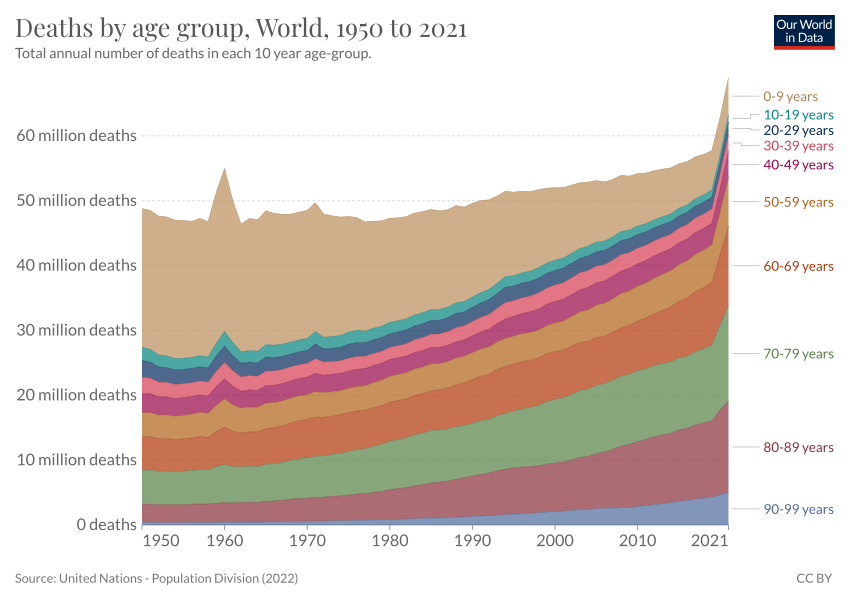
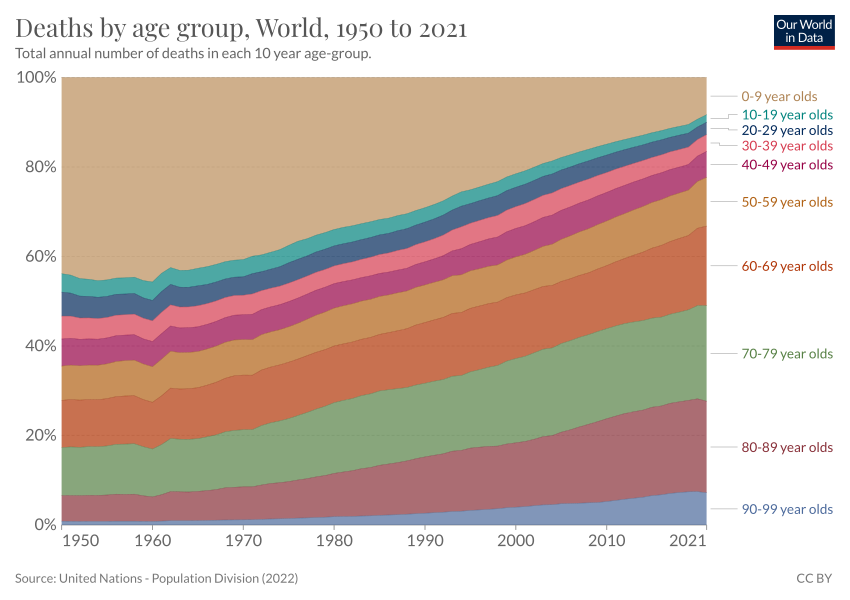
Deploy 2022-10-11T16:23:29.895Z Updating chart carbon-tax-trading-coverage Updating chart carbon-tax-trading-coverage Updating chart carbon-tax-trading-coverage Updating chart carbon-tax-trading-coverage Updating chart emissions-weighted-carbon-price Updating chart emissions-weighted-carbon-price Up

diff --git a/co2-emissions.html b/co2-emissions.html
@@ -1,4 +1,4 @@
-<!doctype html><html><head><meta name="viewport" content="width=device-width, initial-scale=1"/><title>CO2 emissions - Our World in Data</title><meta name="description" content="How much CO2 does the world emit? Which countries emit the most?"/><link rel="canonical" href="https://ourworldindata.org/co2-emissions"/><link rel="alternate" type="application/atom+xml" href="/atom.xml"/><link rel="apple-touch-icon" sizes="180x180" href="/apple-touch-icon.png"/><meta property="fb:app_id" content="1149943818390250"/><meta property="og:url" content="https://ourworldindata.org/co2-emissions"/><meta property="og:title" content="CO2 emissions"/><meta property="og:description" content="How much CO2 does the world emit? Which countries emit the most?"/><meta property="og:image" content="https://ourworldindata.org/uploads/2022/03/Screenshot-2022-03-04-at-16.51.31-768x480.png"/><meta property="og:site_name" content="Our World in Data"/><meta name="twitter:card" content="summary_large_image"/><meta name="twitter:site" content="@OurWorldInData"/><meta name="twitter:creator" content="@OurWorldInData"/><meta name="twitter:title" content="CO2 emissions"/><meta name="twitter:description" content="How much CO2 does the world emit? Which countries emit the most?"/><meta name="twitter:image" content="https://ourworldindata.org/uploads/2022/03/Screenshot-2022-03-04-at-16.51.31-768x480.png"/><link href="https://fonts.googleapis.com/css?family=Lato:300,400,400i,700,700i|Playfair+Display:400,600,700&amp;display=swap" rel="stylesheet"/><link rel="stylesheet" href="https://ourworldindata.org/assets/commons.css"/><link rel="stylesheet" href="https://ourworldindata.org/assets/owid.css"/><meta name="citation_title" content="CO₂ and Greenhouse Gas Emissions"/><meta name="citation_fulltext_html_url" content="https://ourworldindata.org/co2-and-other-greenhouse-gas-emissions"/><meta name="citation_fulltext_world_readable" content=""/><meta name="citation_publication_date" content="2020/05/11"/><meta name="citation_journal_title" content="Our World in Data"/><meta name="citation_journal_abbrev" content="Our World in Data"/><meta name="citation_author" content="Hannah Ritchie"/><meta name="citation_author" content="Max Roser"/><meta name="citation_author" content="Pablo Rosado"/></head><body class=""><header class="site-header"><div class="wrapper site-navigation-bar"><div class="site-logo"><a href="/">Our World<br/> in Data</a></div><nav class="site-navigation"><div class="topics-button-wrapper"><a href="/#entries" class="topics-button"><div class="label">Articles <br/><strong>by topic</strong></div><div class="icon"><svg width="12" height="6"><path d="M0,0 L12,0 L6,6 Z" fill="currentColor"></path></svg></div></a></div><div><div class="site-primary-navigation"><form class="HeaderSearch" action="/search" method="GET"><input type="search" name="q" placeholder="Search..."/><div class="icon"><svg aria-hidden="true" focusable="false" data-prefix="fas" data-icon="magnifying-glass" class="svg-inline--fa fa-magnifying-glass " role="img" xmlns="http://www.w3.org/2000/svg" viewBox="0 0 512 512"><path fill="currentColor" d="M416 208c0 45.9-14.9 88.3-40 122.7L502.6 457.4c12.5 12.5 12.5 32.8 0 45.3s-32.8 12.5-45.3 0L330.7 376c-34.4 25.2-76.8 40-122.7 40C93.1 416 0 322.9 0 208S93.1 0 208 0S416 93.1 416 208zM208 352c79.5 0 144-64.5 144-144s-64.5-144-144-144S64 128.5 64 208s64.5 144 144 144z"></path></svg></div></form><ul class="site-primary-links"><li><a href="/blog" data-track-note="header-navigation">Latest</a></li><li><a href="/about" data-track-note="header-navigation">About</a></li><li><a href="/donate" data-track-note="header-navigation">Donate</a></li></ul></div><div class="site-secondary-navigation"><ul class="site-secondary-links"><li><a href="/charts" data-track-note="header-navigation">All charts</a></li><li><a href="https://sdg-tracker.org" data-track-note="header-navigation">Sustainable Development Goals Tracker</a></li></ul></div></div></nav><div class="header-logos-wrapper"><a href="https://www.oxfordmartin.ox.ac.uk/global-development" class="oxford-logo"><img src="https://ourworldindata.org/oms-logo.svg" alt="Oxford Martin School logo"/></a><a href="https://global-change-data-lab.org/" class="gcdl-logo"><img src="https://ourworldindata.org/gcdl-logo.svg" alt="Global Change Data Lab logo"/></a></div><div class="mobile-site-navigation"><button data-track-note="mobile-search-button"><svg aria-hidden="true" focusable="false" data-prefix="fas" data-icon="magnifying-glass" class="svg-inline--fa fa-magnifying-glass " role="img" xmlns="http://www.w3.org/2000/svg" viewBox="0 0 512 512"><path fill="currentColor" d="M416 208c0 45.9-14.9 88.3-40 122.7L502.6 457.4c12.5 12.5 12.5 32.8 0 45.3s-32.8 12.5-45.3 0L330.7 376c-34.4 25.2-76.8 40-122.7 40C93.1 416 0 322.9 0 208S93.1 0 208 0S416 93.1 416 208zM208 352c79.5 0 144-64.5 144-144s-64.5-144-144-144S64 128.5 64 208s64.5 144 144 144z"></path></svg></button><button data-track-note="mobile-newsletter-button"><svg aria-hidden="true" focusable="false" data-prefix="fas" data-icon="envelope-open-text" class="svg-inline--fa fa-envelope-open-text " role="img" xmlns="http://www.w3.org/2000/svg" viewBox="0 0 512 512"><path fill="currentColor" d="M215.4 96H144 107.8 96v8.8V144v40.4 89L.2 202.5c1.6-18.1 10.9-34.9 25.7-45.8L48 140.3V96c0-26.5 21.5-48 48-48h76.6l49.9-36.9C232.2 3.9 243.9 0 256 0s23.8 3.9 33.5 11L339.4 48H416c26.5 0 48 21.5 48 48v44.3l22.1 16.4c14.8 10.9 24.1 27.7 25.7 45.8L416 273.4v-89V144 104.8 96H404.2 368 296.6 215.4zM0 448V242.1L217.6 403.3c11.1 8.2 24.6 12.7 38.4 12.7s27.3-4.4 38.4-12.7L512 242.1V448v0c0 35.3-28.7 64-64 64H64c-35.3 0-64-28.7-64-64v0zM176 160H336c8.8 0 16 7.2 16 16s-7.2 16-16 16H176c-8.8 0-16-7.2-16-16s7.2-16 16-16zm0 64H336c8.8 0 16 7.2 16 16s-7.2 16-16 16H176c-8.8 0-16-7.2-16-16s7.2-16 16-16z"></path></svg></button><button data-track-note="mobile-hamburger-button"><svg aria-hidden="true" focusable="false" data-prefix="fas" data-icon="bars" class="svg-inline--fa fa-bars " role="img" xmlns="http://www.w3.org/2000/svg" viewBox="0 0 448 512"><path fill="currentColor" d="M0 96C0 78.3 14.3 64 32 64H416c17.7 0 32 14.3 32 32s-14.3 32-32 32H32C14.3 128 0 113.7 0 96zM0 256c0-17.7 14.3-32 32-32H416c17.7 0 32 14.3 32 32s-14.3 32-32 32H32c-17.7 0-32-14.3-32-32zM448 416c0 17.7-14.3 32-32 32H32c-17.7 0-32-14.3-32-32s14.3-32 32-32H416c17.7 0 32 14.3 32 32z"></path></svg></button></div></div></header><div class="alert-banner"><div class="content"><div class="text"><strong>COVID-19 vaccinations, cases, excess mortality, and much more</strong></div><a href="/coronavirus#explore-the-global-situation" data-track-note="covid-banner-click">Explore our COVID-19 data</a></div></div><main><article class="page with-sidebar large-banner"><div class="offset-header"><header class="article-header"><div class="article-titles"><h1 class="entry-title">CO2 emissions</h1><div class="breadcrumb"><a href="/">Home</a><span class="separator"><svg aria-hidden="true" focusable="false" data-prefix="fas" data-icon="angle-right" class="svg-inline--fa fa-angle-right " role="img" xmlns="http://www.w3.org/2000/svg" viewBox="0 0 320 512"><path fill="currentColor" d="M278.6 233.4c12.5 12.5 12.5 32.8 0 45.3l-160 160c-12.5 12.5-32.8 12.5-45.3 0s-12.5-32.8 0-45.3L210.7 256 73.4 118.6c-12.5-12.5-12.5-32.8 0-45.3s32.8-12.5 45.3 0l160 160z"></path></svg></span><a data-track-note="breadcrumb" href="/co2-and-other-greenhouse-gas-emissions">CO₂ and GHG Emissions</a><span class="separator"><svg aria-hidden="true" focusable="false" data-prefix="fas" data-icon="angle-right" class="svg-inline--fa fa-angle-right " role="img" xmlns="http://www.w3.org/2000/svg" viewBox="0 0 320 512"><path fill="currentColor" d="M278.6 233.4c12.5 12.5 12.5 32.8 0 45.3l-160 160c-12.5 12.5-32.8 12.5-45.3 0s-12.5-32.8 0-45.3L210.7 256 73.4 118.6c-12.5-12.5-12.5-32.8 0-45.3s32.8-12.5 45.3 0l160 160z"></path></svg></span><span>CO₂ emissions</span></div></div><div class="authors-byline"><a href="/team">by Hannah Ritchie and Max Roser</a></div><div class="tools"><a href="#licence"><svg aria-hidden="true" focusable="false" data-prefix="fab" data-icon="creative-commons" class="svg-inline--fa fa-creative-commons " role="img" xmlns="http://www.w3.org/2000/svg" viewBox="0 0 496 512"><path fill="currentColor" d="M245.83 214.87l-33.22 17.28c-9.43-19.58-25.24-19.93-27.46-19.93-22.13 0-33.22 14.61-33.22 43.84 0 23.57 9.21 43.84 33.22 43.84 14.47 0 24.65-7.09 30.57-21.26l30.55 15.5c-6.17 11.51-25.69 38.98-65.1 38.98-22.6 0-73.96-10.32-73.96-77.05 0-58.69 43-77.06 72.63-77.06 30.72-.01 52.7 11.95 65.99 35.86zm143.05 0l-32.78 17.28c-9.5-19.77-25.72-19.93-27.9-19.93-22.14 0-33.22 14.61-33.22 43.84 0 23.55 9.23 43.84 33.22 43.84 14.45 0 24.65-7.09 30.54-21.26l31 15.5c-2.1 3.75-21.39 38.98-65.09 38.98-22.69 0-73.96-9.87-73.96-77.05 0-58.67 42.97-77.06 72.63-77.06 30.71-.01 52.58 11.95 65.56 35.86zM247.56 8.05C104.74 8.05 0 123.11 0 256.05c0 138.49 113.6 248 247.56 248 129.93 0 248.44-100.87 248.44-248 0-137.87-106.62-248-248.44-248zm.87 450.81c-112.54 0-203.7-93.04-203.7-202.81 0-105.42 85.43-203.27 203.72-203.27 112.53 0 202.82 89.46 202.82 203.26-.01 121.69-99.68 202.82-202.84 202.82z"></path></svg>Reuse our work freely</a><a href="#citation"><svg aria-hidden="true" focusable="false" data-prefix="fas" data-icon="book" class="svg-inline--fa fa-book " role="img" xmlns="http://www.w3.org/2000/svg" viewBox="0 0 448 512"><path fill="currentColor" d="M96 0C43 0 0 43 0 96V416c0 53 43 96 96 96H384h32c17.7 0 32-14.3 32-32s-14.3-32-32-32V384c17.7 0 32-14.3 32-32V32c0-17.7-14.3-32-32-32H384 96zm0 384H352v64H96c-17.7 0-32-14.3-32-32s14.3-32 32-32zm32-240c0-8.8 7.2-16 16-16H336c8.8 0 16 7.2 16 16s-7.2 16-16 16H144c-8.8 0-16-7.2-16-16zm16 48H336c8.8 0 16 7.2 16 16s-7.2 16-16 16H144c-8.8 0-16-7.2-16-16s7.2-16 16-16z"></path></svg>Cite this research</a></div></header></div><div class="offset-subnavigation"><div class="site-subnavigation"><div class="site-subnavigation-scroll"><ul class="site-subnavigation-links"><li class="highlight"><a href="/co2-and-other-greenhouse-gas-emissions" data-track-note="co2-subnav-co2-and-ghg-emissions">CO₂ and GHG Emissions<svg aria-hidden="true" focusable="false" data-prefix="fas" data-icon="chevron-left" class="svg-inline--fa fa-chevron-left " role="img" xmlns="http://www.w3.org/2000/svg" viewBox="0 0 384 512"><path fill="currentColor" d="M41.4 233.4c-12.5 12.5-12.5 32.8 0 45.3l192 192c12.5 12.5 32.8 12.5 45.3 0s12.5-32.8 0-45.3L109.3 256 278.6 86.6c12.5-12.5 12.5-32.8 0-45.3s-32.8-12.5-45.3 0l-192 192z"></path></svg></a></li><li class=""><a href="/co2-and-other-greenhouse-gas-emissions#co2-and-greenhouse-gas-emissions-country-profiles" data-track-note="co2-subnav-by-country">By country</a></li><li class=""><a href="/explorers/co2" data-track-note="co2-subnav-co2-data-explorer">Data explorer</a></li><li class="current"><a href="/co2-emissions" data-track-note="co2-subnav-co2-emissions">CO₂ emissions</a></li><li class=""><a href="/emissions-by-fuel" data-track-note="co2-subnav-by-fuel">CO₂ by fuel</a></li><li class=""><a href="/greenhouse-gas-emissions" data-track-note="co2-subnav-ghg-emissions">GHG emissions</a></li><li class=""><a href="/emissions-by-sector" data-track-note="co2-subnav-by-sector">By sector</a></li><li class=""><a href="/atmospheric-concentrations" data-track-note="co2-subnav-atm-concentrations">Atmospheric concentrations</a></li><li class=""><a href="/explorers/climate-change" data-track-note="co2-subnav-climate-impacts">Climate impacts</a></li></ul></div></div></div><div class="content-wrapper"><div class="toc-wrapper"><aside class="entry-sidebar"><nav class="entry-toc"><ul><li><a href="#" data-track-note="toc-header">CO2 emissions</a></li><li class="section"><a href="#global-co2-emissions-from-fossil-fuels" data-track-note="toc-link">Global CO2 emissions from fossil fuels</a></li><li class="subsection"><a href="#global-co2-emissions-from-fossil-fuels-global-co2-emissions-from-fossil-fuels" data-track-note="toc-link">Global CO2 emissions from fossil fuels</a></li><li class="subsection"><a href="#global-co2-emissions-from-fossil-fuels-and-land-use-change" data-track-note="toc-link">Global CO2 emissions from fossil fuels and land use change</a></li><li class="subsection"><a href="#co2-emissions-by-region" data-track-note="toc-link">CO2 emissions by region</a></li><li class="section"><a href="#per-capita-co2-emissions" data-track-note="toc-link">Per capita CO2 emissions</a></li><li class="section"><a href="#annual-co2-emissions" data-track-note="toc-link">Annual CO2 emissions</a></li><li class="section"><a href="#annual-change-in-co2-emissions" data-track-note="toc-link">Annual change in CO2 emissions</a></li><li class="section"><a href="#cumulative-co2-emissions" data-track-note="toc-link">Cumulative CO2 emissions</a></li><li class="section"><a href="#consumption-based-trade-adjusted-emissions" data-track-note="toc-link">Consumption-based (trade-adjusted) emissions</a></li><li class="section"><a href="#decoupling-co2-emissions-from-economic-growth" data-track-note="toc-link">Decoupling CO₂ emissions from economic growth</a></li><li class="section"><a href="#global-inequalities-in-co2-emissions" data-track-note="toc-link">Global inequalities in CO2 emissions</a></li><li class="subsection"><a href="#global-inequalities-by-production" data-track-note="toc-link">Global inequalities by production</a></li><li class="subsection"><a href="#global-inequalities-by-consumption" data-track-note="toc-link">Global inequalities by consumption</a></li><li class="section"><a href="#how-do-we-measure-or-estimate-co2-emissions" data-track-note="toc-link">How do we measure or estimate CO2 emissions?</a></li><li class="section"><a href="#endnotes" data-track-note="toc-link">Endnotes</a></li><li class="section"><a href="#licence" data-track-note="toc-link">Licence</a></li><li class="section"><a href="#citation" data-track-note="toc-link">Citation</a></li></ul></nav><div class="toggle-toc"><button data-track-note="page-toggle-toc" aria-label="Open table of contents"><svg aria-hidden="true" focusable="false" data-prefix="fas" data-icon="bars" class="svg-inline--fa fa-bars " role="img" xmlns="http://www.w3.org/2000/svg" viewBox="0 0 448 512"><path fill="currentColor" d="M0 96C0 78.3 14.3 64 32 64H416c17.7 0 32 14.3 32 32s-14.3 32-32 32H32C14.3 128 0 113.7 0 96zM0 256c0-17.7 14.3-32 32-32H416c17.7 0 32 14.3 32 32s-14.3 32-32 32H32c-17.7 0-32-14.3-32-32zM448 416c0 17.7-14.3 32-32 32H32c-17.7 0-32-14.3-32-32s14.3-32 32-32H416c17.7 0 32 14.3 32 32z"></path></svg><span class="label">Contents</span></button></div></aside></div><div class="offset-content"><div class="content-and-footnotes"><div class="article-content"><section><div class="wp-block-columns is-style-sticky-right"><div class="wp-block-column"><p>You can&nbsp;<strong><a href="https://github.com/owid/co2-data">download</a></strong>&nbsp;our complete <em>Our World in Data</em> CO<sub>2</sub> and Greenhouse Gas Emissions database.</p><hr class="wp-block-separator"><p>Carbon dioxide emissions are the primary driver of global climate change. It’s widely recognised that to avoid the worst impacts of climate change, the world needs to urgently reduce emissions. But, how this responsibility is shared between regions, countries, and individuals has been an endless point of contention in international discussions. </p><p>This debate arises from the various ways in which emissions are compared: as annual emissions by country; emissions per person; historical contributions; and whether they adjust for traded goods and services. These metrics can tell very different stories. </p><p>We teamed up with the YouTube channel, <em>Kurzgesagt</em>, to produce a video which explored these different metrics in detail: <a href="https://www.youtube.com/watch?v=ipVxxxqwBQw">‘Who is responsible for climate change? – Who needs to fix it?’</a>. All of the data and research featured in this video is contained in this article: below we look in detail at the many ways emissions are broken down.</p><div class="wp-container-634594a6cf4fa wp-block-group">    <div class="block-wrapper"><div class="wp-block-owid-prominent-link with-image" data-no-lightbox="true" data-style="is-style-thin" data-title="&nbsp;‘Who is responsible for climate change? – Who needs to fix it?’"><a href="https://www.youtube.com/watch?v=ipVxxxqwBQw"><figure><img width="768" height="433" src="https://ourworldindata.org/uploads/2020/06/CO2-Kurzgesagt-768x433.png" class="attachment-medium_large size-medium_large" alt="Co2 kurzgesagt" loading="lazy" srcset="https://ourworldindata.org/uploads/2020/06/CO2-Kurzgesagt-768x433.png 768w, https://ourworldindata.org/uploads/2020/06/CO2-Kurzgesagt-400x225.png 400w, https://ourworldindata.org/uploads/2020/06/CO2-Kurzgesagt-800x451.png 800w, https://ourworldindata.org/uploads/2020/06/CO2-Kurzgesagt-150x84.png 150w, https://ourworldindata.org/uploads/2020/06/CO2-Kurzgesagt.png 1422w" sizes="(max-width: 768px) 100vw, 768px" data-high-res-src="https://ourworldindata.org/uploads/2020/06/CO2-Kurzgesagt.png"></figure><div class="content-wrapper"><div class="content">
+<!doctype html><html><head><meta name="viewport" content="width=device-width, initial-scale=1"/><title>CO2 emissions - Our World in Data</title><meta name="description" content="How much CO2 does the world emit? Which countries emit the most?"/><link rel="canonical" href="https://ourworldindata.org/co2-emissions"/><link rel="alternate" type="application/atom+xml" href="/atom.xml"/><link rel="apple-touch-icon" sizes="180x180" href="/apple-touch-icon.png"/><meta property="fb:app_id" content="1149943818390250"/><meta property="og:url" content="https://ourworldindata.org/co2-emissions"/><meta property="og:title" content="CO2 emissions"/><meta property="og:description" content="How much CO2 does the world emit? Which countries emit the most?"/><meta property="og:image" content="https://ourworldindata.org/uploads/2022/03/Screenshot-2022-03-04-at-16.51.31-768x480.png"/><meta property="og:site_name" content="Our World in Data"/><meta name="twitter:card" content="summary_large_image"/><meta name="twitter:site" content="@OurWorldInData"/><meta name="twitter:creator" content="@OurWorldInData"/><meta name="twitter:title" content="CO2 emissions"/><meta name="twitter:description" content="How much CO2 does the world emit? Which countries emit the most?"/><meta name="twitter:image" content="https://ourworldindata.org/uploads/2022/03/Screenshot-2022-03-04-at-16.51.31-768x480.png"/><link href="https://fonts.googleapis.com/css?family=Lato:300,400,400i,700,700i|Playfair+Display:400,600,700&amp;display=swap" rel="stylesheet"/><link rel="stylesheet" href="https://ourworldindata.org/assets/commons.css"/><link rel="stylesheet" href="https://ourworldindata.org/assets/owid.css"/><meta name="citation_title" content="CO₂ and Greenhouse Gas Emissions"/><meta name="citation_fulltext_html_url" content="https://ourworldindata.org/co2-and-other-greenhouse-gas-emissions"/><meta name="citation_fulltext_world_readable" content=""/><meta name="citation_publication_date" content="2020/05/11"/><meta name="citation_journal_title" content="Our World in Data"/><meta name="citation_journal_abbrev" content="Our World in Data"/><meta name="citation_author" content="Hannah Ritchie"/><meta name="citation_author" content="Max Roser"/><meta name="citation_author" content="Pablo Rosado"/></head><body class=""><header class="site-header"><div class="wrapper site-navigation-bar"><div class="site-logo"><a href="/">Our World<br/> in Data</a></div><nav class="site-navigation"><div class="topics-button-wrapper"><a href="/#entries" class="topics-button"><div class="label">Articles <br/><strong>by topic</strong></div><div class="icon"><svg width="12" height="6"><path d="M0,0 L12,0 L6,6 Z" fill="currentColor"></path></svg></div></a></div><div><div class="site-primary-navigation"><form class="HeaderSearch" action="/search" method="GET"><input type="search" name="q" placeholder="Search..."/><div class="icon"><svg aria-hidden="true" focusable="false" data-prefix="fas" data-icon="magnifying-glass" class="svg-inline--fa fa-magnifying-glass " role="img" xmlns="http://www.w3.org/2000/svg" viewBox="0 0 512 512"><path fill="currentColor" d="M416 208c0 45.9-14.9 88.3-40 122.7L502.6 457.4c12.5 12.5 12.5 32.8 0 45.3s-32.8 12.5-45.3 0L330.7 376c-34.4 25.2-76.8 40-122.7 40C93.1 416 0 322.9 0 208S93.1 0 208 0S416 93.1 416 208zM208 352c79.5 0 144-64.5 144-144s-64.5-144-144-144S64 128.5 64 208s64.5 144 144 144z"></path></svg></div></form><ul class="site-primary-links"><li><a href="/blog" data-track-note="header-navigation">Latest</a></li><li><a href="/about" data-track-note="header-navigation">About</a></li><li><a href="/donate" data-track-note="header-navigation">Donate</a></li></ul></div><div class="site-secondary-navigation"><ul class="site-secondary-links"><li><a href="/charts" data-track-note="header-navigation">All charts</a></li><li><a href="https://sdg-tracker.org" data-track-note="header-navigation">Sustainable Development Goals Tracker</a></li></ul></div></div></nav><div class="header-logos-wrapper"><a href="https://www.oxfordmartin.ox.ac.uk/global-development" class="oxford-logo"><img src="https://ourworldindata.org/oms-logo.svg" alt="Oxford Martin School logo"/></a><a href="https://global-change-data-lab.org/" class="gcdl-logo"><img src="https://ourworldindata.org/gcdl-logo.svg" alt="Global Change Data Lab logo"/></a></div><div class="mobile-site-navigation"><button data-track-note="mobile-search-button"><svg aria-hidden="true" focusable="false" data-prefix="fas" data-icon="magnifying-glass" class="svg-inline--fa fa-magnifying-glass " role="img" xmlns="http://www.w3.org/2000/svg" viewBox="0 0 512 512"><path fill="currentColor" d="M416 208c0 45.9-14.9 88.3-40 122.7L502.6 457.4c12.5 12.5 12.5 32.8 0 45.3s-32.8 12.5-45.3 0L330.7 376c-34.4 25.2-76.8 40-122.7 40C93.1 416 0 322.9 0 208S93.1 0 208 0S416 93.1 416 208zM208 352c79.5 0 144-64.5 144-144s-64.5-144-144-144S64 128.5 64 208s64.5 144 144 144z"></path></svg></button><button data-track-note="mobile-newsletter-button"><svg aria-hidden="true" focusable="false" data-prefix="fas" data-icon="envelope-open-text" class="svg-inline--fa fa-envelope-open-text " role="img" xmlns="http://www.w3.org/2000/svg" viewBox="0 0 512 512"><path fill="currentColor" d="M215.4 96H144 107.8 96v8.8V144v40.4 89L.2 202.5c1.6-18.1 10.9-34.9 25.7-45.8L48 140.3V96c0-26.5 21.5-48 48-48h76.6l49.9-36.9C232.2 3.9 243.9 0 256 0s23.8 3.9 33.5 11L339.4 48H416c26.5 0 48 21.5 48 48v44.3l22.1 16.4c14.8 10.9 24.1 27.7 25.7 45.8L416 273.4v-89V144 104.8 96H404.2 368 296.6 215.4zM0 448V242.1L217.6 403.3c11.1 8.2 24.6 12.7 38.4 12.7s27.3-4.4 38.4-12.7L512 242.1V448v0c0 35.3-28.7 64-64 64H64c-35.3 0-64-28.7-64-64v0zM176 160H336c8.8 0 16 7.2 16 16s-7.2 16-16 16H176c-8.8 0-16-7.2-16-16s7.2-16 16-16zm0 64H336c8.8 0 16 7.2 16 16s-7.2 16-16 16H176c-8.8 0-16-7.2-16-16s7.2-16 16-16z"></path></svg></button><button data-track-note="mobile-hamburger-button"><svg aria-hidden="true" focusable="false" data-prefix="fas" data-icon="bars" class="svg-inline--fa fa-bars " role="img" xmlns="http://www.w3.org/2000/svg" viewBox="0 0 448 512"><path fill="currentColor" d="M0 96C0 78.3 14.3 64 32 64H416c17.7 0 32 14.3 32 32s-14.3 32-32 32H32C14.3 128 0 113.7 0 96zM0 256c0-17.7 14.3-32 32-32H416c17.7 0 32 14.3 32 32s-14.3 32-32 32H32c-17.7 0-32-14.3-32-32zM448 416c0 17.7-14.3 32-32 32H32c-17.7 0-32-14.3-32-32s14.3-32 32-32H416c17.7 0 32 14.3 32 32z"></path></svg></button></div></div></header><div class="alert-banner"><div class="content"><div class="text"><strong>COVID-19 vaccinations, cases, excess mortality, and much more</strong></div><a href="/coronavirus#explore-the-global-situation" data-track-note="covid-banner-click">Explore our COVID-19 data</a></div></div><main><article class="page with-sidebar large-banner"><div class="offset-header"><header class="article-header"><div class="article-titles"><h1 class="entry-title">CO2 emissions</h1><div class="breadcrumb"><a href="/">Home</a><span class="separator"><svg aria-hidden="true" focusable="false" data-prefix="fas" data-icon="angle-right" class="svg-inline--fa fa-angle-right " role="img" xmlns="http://www.w3.org/2000/svg" viewBox="0 0 320 512"><path fill="currentColor" d="M278.6 233.4c12.5 12.5 12.5 32.8 0 45.3l-160 160c-12.5 12.5-32.8 12.5-45.3 0s-12.5-32.8 0-45.3L210.7 256 73.4 118.6c-12.5-12.5-12.5-32.8 0-45.3s32.8-12.5 45.3 0l160 160z"></path></svg></span><a data-track-note="breadcrumb" href="/co2-and-other-greenhouse-gas-emissions">CO₂ and GHG Emissions</a><span class="separator"><svg aria-hidden="true" focusable="false" data-prefix="fas" data-icon="angle-right" class="svg-inline--fa fa-angle-right " role="img" xmlns="http://www.w3.org/2000/svg" viewBox="0 0 320 512"><path fill="currentColor" d="M278.6 233.4c12.5 12.5 12.5 32.8 0 45.3l-160 160c-12.5 12.5-32.8 12.5-45.3 0s-12.5-32.8 0-45.3L210.7 256 73.4 118.6c-12.5-12.5-12.5-32.8 0-45.3s32.8-12.5 45.3 0l160 160z"></path></svg></span><span>CO₂ emissions</span></div></div><div class="authors-byline"><a href="/team">by Hannah Ritchie and Max Roser</a></div><div class="tools"><a href="#licence"><svg aria-hidden="true" focusable="false" data-prefix="fab" data-icon="creative-commons" class="svg-inline--fa fa-creative-commons " role="img" xmlns="http://www.w3.org/2000/svg" viewBox="0 0 496 512"><path fill="currentColor" d="M245.83 214.87l-33.22 17.28c-9.43-19.58-25.24-19.93-27.46-19.93-22.13 0-33.22 14.61-33.22 43.84 0 23.57 9.21 43.84 33.22 43.84 14.47 0 24.65-7.09 30.57-21.26l30.55 15.5c-6.17 11.51-25.69 38.98-65.1 38.98-22.6 0-73.96-10.32-73.96-77.05 0-58.69 43-77.06 72.63-77.06 30.72-.01 52.7 11.95 65.99 35.86zm143.05 0l-32.78 17.28c-9.5-19.77-25.72-19.93-27.9-19.93-22.14 0-33.22 14.61-33.22 43.84 0 23.55 9.23 43.84 33.22 43.84 14.45 0 24.65-7.09 30.54-21.26l31 15.5c-2.1 3.75-21.39 38.98-65.09 38.98-22.69 0-73.96-9.87-73.96-77.05 0-58.67 42.97-77.06 72.63-77.06 30.71-.01 52.58 11.95 65.56 35.86zM247.56 8.05C104.74 8.05 0 123.11 0 256.05c0 138.49 113.6 248 247.56 248 129.93 0 248.44-100.87 248.44-248 0-137.87-106.62-248-248.44-248zm.87 450.81c-112.54 0-203.7-93.04-203.7-202.81 0-105.42 85.43-203.27 203.72-203.27 112.53 0 202.82 89.46 202.82 203.26-.01 121.69-99.68 202.82-202.84 202.82z"></path></svg>Reuse our work freely</a><a href="#citation"><svg aria-hidden="true" focusable="false" data-prefix="fas" data-icon="book" class="svg-inline--fa fa-book " role="img" xmlns="http://www.w3.org/2000/svg" viewBox="0 0 448 512"><path fill="currentColor" d="M96 0C43 0 0 43 0 96V416c0 53 43 96 96 96H384h32c17.7 0 32-14.3 32-32s-14.3-32-32-32V384c17.7 0 32-14.3 32-32V32c0-17.7-14.3-32-32-32H384 96zm0 384H352v64H96c-17.7 0-32-14.3-32-32s14.3-32 32-32zm32-240c0-8.8 7.2-16 16-16H336c8.8 0 16 7.2 16 16s-7.2 16-16 16H144c-8.8 0-16-7.2-16-16zm16 48H336c8.8 0 16 7.2 16 16s-7.2 16-16 16H144c-8.8 0-16-7.2-16-16s7.2-16 16-16z"></path></svg>Cite this research</a></div></header></div><div class="offset-subnavigation"><div class="site-subnavigation"><div class="site-subnavigation-scroll"><ul class="site-subnavigation-links"><li class="highlight"><a href="/co2-and-other-greenhouse-gas-emissions" data-track-note="co2-subnav-co2-and-ghg-emissions">CO₂ and GHG Emissions<svg aria-hidden="true" focusable="false" data-prefix="fas" data-icon="chevron-left" class="svg-inline--fa fa-chevron-left " role="img" xmlns="http://www.w3.org/2000/svg" viewBox="0 0 384 512"><path fill="currentColor" d="M41.4 233.4c-12.5 12.5-12.5 32.8 0 45.3l192 192c12.5 12.5 32.8 12.5 45.3 0s12.5-32.8 0-45.3L109.3 256 278.6 86.6c12.5-12.5 12.5-32.8 0-45.3s-32.8-12.5-45.3 0l-192 192z"></path></svg></a></li><li class=""><a href="/co2-and-other-greenhouse-gas-emissions#co2-and-greenhouse-gas-emissions-country-profiles" data-track-note="co2-subnav-by-country">By country</a></li><li class=""><a href="/explorers/co2" data-track-note="co2-subnav-co2-data-explorer">Data explorer</a></li><li class="current"><a href="/co2-emissions" data-track-note="co2-subnav-co2-emissions">CO₂ emissions</a></li><li class=""><a href="/emissions-by-fuel" data-track-note="co2-subnav-by-fuel">CO₂ by fuel</a></li><li class=""><a href="/greenhouse-gas-emissions" data-track-note="co2-subnav-ghg-emissions">GHG emissions</a></li><li class=""><a href="/emissions-by-sector" data-track-note="co2-subnav-by-sector">By sector</a></li><li class=""><a href="/atmospheric-concentrations" data-track-note="co2-subnav-atm-concentrations">Atmospheric concentrations</a></li><li class=""><a href="/explorers/climate-change" data-track-note="co2-subnav-climate-impacts">Climate impacts</a></li></ul></div></div></div><div class="content-wrapper"><div class="toc-wrapper"><aside class="entry-sidebar"><nav class="entry-toc"><ul><li><a href="#" data-track-note="toc-header">CO2 emissions</a></li><li class="section"><a href="#global-co2-emissions-from-fossil-fuels" data-track-note="toc-link">Global CO2 emissions from fossil fuels</a></li><li class="subsection"><a href="#global-co2-emissions-from-fossil-fuels-global-co2-emissions-from-fossil-fuels" data-track-note="toc-link">Global CO2 emissions from fossil fuels</a></li><li class="subsection"><a href="#global-co2-emissions-from-fossil-fuels-and-land-use-change" data-track-note="toc-link">Global CO2 emissions from fossil fuels and land use change</a></li><li class="subsection"><a href="#co2-emissions-by-region" data-track-note="toc-link">CO2 emissions by region</a></li><li class="section"><a href="#per-capita-co2-emissions" data-track-note="toc-link">Per capita CO2 emissions</a></li><li class="section"><a href="#annual-co2-emissions" data-track-note="toc-link">Annual CO2 emissions</a></li><li class="section"><a href="#annual-change-in-co2-emissions" data-track-note="toc-link">Annual change in CO2 emissions</a></li><li class="section"><a href="#cumulative-co2-emissions" data-track-note="toc-link">Cumulative CO2 emissions</a></li><li class="section"><a href="#consumption-based-trade-adjusted-emissions" data-track-note="toc-link">Consumption-based (trade-adjusted) emissions</a></li><li class="section"><a href="#decoupling-co2-emissions-from-economic-growth" data-track-note="toc-link">Decoupling CO₂ emissions from economic growth</a></li><li class="section"><a href="#global-inequalities-in-co2-emissions" data-track-note="toc-link">Global inequalities in CO2 emissions</a></li><li class="subsection"><a href="#global-inequalities-by-production" data-track-note="toc-link">Global inequalities by production</a></li><li class="subsection"><a href="#global-inequalities-by-consumption" data-track-note="toc-link">Global inequalities by consumption</a></li><li class="section"><a href="#how-do-we-measure-or-estimate-co2-emissions" data-track-note="toc-link">How do we measure or estimate CO2 emissions?</a></li><li class="section"><a href="#endnotes" data-track-note="toc-link">Endnotes</a></li><li class="section"><a href="#licence" data-track-note="toc-link">Licence</a></li><li class="section"><a href="#citation" data-track-note="toc-link">Citation</a></li></ul></nav><div class="toggle-toc"><button data-track-note="page-toggle-toc" aria-label="Open table of contents"><svg aria-hidden="true" focusable="false" data-prefix="fas" data-icon="bars" class="svg-inline--fa fa-bars " role="img" xmlns="http://www.w3.org/2000/svg" viewBox="0 0 448 512"><path fill="currentColor" d="M0 96C0 78.3 14.3 64 32 64H416c17.7 0 32 14.3 32 32s-14.3 32-32 32H32C14.3 128 0 113.7 0 96zM0 256c0-17.7 14.3-32 32-32H416c17.7 0 32 14.3 32 32s-14.3 32-32 32H32c-17.7 0-32-14.3-32-32zM448 416c0 17.7-14.3 32-32 32H32c-17.7 0-32-14.3-32-32s14.3-32 32-32H416c17.7 0 32 14.3 32 32z"></path></svg><span class="label">Contents</span></button></div></aside></div><div class="offset-content"><div class="content-and-footnotes"><div class="article-content"><section><div class="wp-block-columns is-style-sticky-right"><div class="wp-block-column"><p>You can&nbsp;<strong><a href="https://github.com/owid/co2-data">download</a></strong>&nbsp;our complete <em>Our World in Data</em> CO<sub>2</sub> and Greenhouse Gas Emissions database.</p><hr class="wp-block-separator"><p>Carbon dioxide emissions are the primary driver of global climate change. It’s widely recognised that to avoid the worst impacts of climate change, the world needs to urgently reduce emissions. But, how this responsibility is shared between regions, countries, and individuals has been an endless point of contention in international discussions. </p><p>This debate arises from the various ways in which emissions are compared: as annual emissions by country; emissions per person; historical contributions; and whether they adjust for traded goods and services. These metrics can tell very different stories. </p><p>We teamed up with the YouTube channel, <em>Kurzgesagt</em>, to produce a video which explored these different metrics in detail: <a href="https://www.youtube.com/watch?v=ipVxxxqwBQw">‘Who is responsible for climate change? – Who needs to fix it?’</a>. All of the data and research featured in this video is contained in this article: below we look in detail at the many ways emissions are broken down.</p><div class="wp-container-634598b5abbc8 wp-block-group">    <div class="block-wrapper"><div class="wp-block-owid-prominent-link with-image" data-no-lightbox="true" data-style="is-style-thin" data-title="&nbsp;‘Who is responsible for climate change? – Who needs to fix it?’"><a href="https://www.youtube.com/watch?v=ipVxxxqwBQw"><figure><img width="768" height="433" src="https://ourworldindata.org/uploads/2020/06/CO2-Kurzgesagt-768x433.png" class="attachment-medium_large size-medium_large" alt="Co2 kurzgesagt" loading="lazy" srcset="https://ourworldindata.org/uploads/2020/06/CO2-Kurzgesagt-768x433.png 768w, https://ourworldindata.org/uploads/2020/06/CO2-Kurzgesagt-400x225.png 400w, https://ourworldindata.org/uploads/2020/06/CO2-Kurzgesagt-800x451.png 800w, https://ourworldindata.org/uploads/2020/06/CO2-Kurzgesagt-150x84.png 150w, https://ourworldindata.org/uploads/2020/06/CO2-Kurzgesagt.png 1422w" sizes="(max-width: 768px) 100vw, 768px" data-high-res-src="https://ourworldindata.org/uploads/2020/06/CO2-Kurzgesagt.png"></figure><div class="content-wrapper"><div class="content">
 
 <p>We teamed up with YouTube channel <em>Kurzgesagt</em> to make a video on comparisons of CO<sub>2</sub> emissions.</p>
 

diff --git a/grapher/deaths-by-age-group.html b/grapher/deaths-by-age-group.html
@@ -269,12 +269,13 @@
   "yAxis": {
     "min": 0
   },
-  "version": 2,
+  "version": 3,
   "subtitle": "Total annual number of deaths in each 10 year age-group.",
+  "stackMode": "relative",
   "dimensions": [
     {
       "display": {
-        "name": "0-9 years",
+        "name": "0-9 year olds",
         "unit": "deaths",
         "shortUnit": "deaths",
         "includeInTable": true,
@@ -286,7 +287,7 @@
     },
     {
       "display": {
-        "name": "10-19 years",
+        "name": "10-19 year olds",
         "includeInTable": true,
         "numDecimalPlaces": 0
       },
@@ -295,7 +296,7 @@
     },
     {
       "display": {
-        "name": "20-29 years",
+        "name": "20-29 year olds",
         "includeInTable": true,
         "numDecimalPlaces": 0
       },
@@ -304,7 +305,7 @@
     },
     {
       "display": {
-        "name": "30-39 years",
+        "name": "30-39 year olds",
         "includeInTable": true,
         "numDecimalPlaces": 0
       },
@@ -313,7 +314,7 @@
     },
     {
       "display": {
-        "name": "40-49 years",
+        "name": "40-49 year olds",
         "includeInTable": true,
         "numDecimalPlaces": 0
       },
@@ -322,7 +323,7 @@
     },
     {
       "display": {
-        "name": "50-59 years",
+        "name": "50-59 year olds",
         "includeInTable": true,
         "numDecimalPlaces": 0
       },
@@ -331,7 +332,7 @@
     },
     {
       "display": {
-        "name": "60-69 years",
+        "name": "60-69 year olds",
         "includeInTable": true,
         "numDecimalPlaces": 0
       },
@@ -340,7 +341,7 @@
     },
     {
       "display": {
-        "name": "70-79 years",
+        "name": "70-79 year olds",
         "includeInTable": true,
         "numDecimalPlaces": 0
       },
@@ -349,7 +350,7 @@
     },
     {
       "display": {
-        "name": "80-89 years",
+        "name": "80-89 year olds",
         "includeInTable": true,
         "numDecimalPlaces": 0
       },
@@ -358,7 +359,7 @@
     },
     {
       "display": {
-        "name": "90-99 years",
+        "name": "90-99 year olds",
         "includeInTable": true,
         "numDecimalPlaces": 0
       },

diff --git a/energy-archive.html b/energy-archive.html
@@ -201,7 +201,7 @@
 
 
 
-<div class="wp-sticky-container"><div data-project="energy" class="wp-block-search-country-profile"></div><h5><strong>Our 12 most visited country profiles</strong></h5><div class="wp-container-634594a2da7ee wp-block-group"><div class="wp-block-group__inner-container">
+<div class="wp-sticky-container"><div data-project="energy" class="wp-block-search-country-profile"></div><h5><strong>Our 12 most visited country profiles</strong></h5><div class="wp-container-634598b27031b wp-block-group"><div class="wp-block-group__inner-container">
 <ul class="covid-country-tiles"><li><a href="https://ourworldindata.org/energy/country/united-states?country=~USA">United States</a></li><li><a href="https://ourworldindata.org/energy/country/united-kingdom?country=~GBR">United Kingdom</a></li><li><a href="https://ourworldindata.org/energy/country/china?country=~CHN">China</a></li><li><a href="https://ourworldindata.org/energy/country/india?country=~IND">India</a></li><li><a href="https://ourworldindata.org/energy/country/brazil?country=~BRA">Brazil</a></li><li><a href="https://ourworldindata.org/energy/country/south-africa?country=~ZAF">South Africa</a></li><li><a href="https://ourworldindata.org/energy/country/germany?country=~DEU">Germany</a></li><li><a href="https://ourworldindata.org/energy/country/spain?country=~ESP">Spain</a></li><li><a href="https://ourworldindata.org/energy/country/france?country=~FRA">France</a></li><li><a href="https://ourworldindata.org/energy/country/canada?country=~CAN">Canada</a></li><li><a href="https://ourworldindata.org/energy/country/australia?country=~AUS">Australia</a></li><li><a href="https://ourworldindata.org/energy/country/sweden?country=~SWE">Sweden</a></li></ul>
 </div></div></div></div>
 

diff --git a/co2-and-other-greenhouse-gas-emissions.html b/co2-and-other-greenhouse-gas-emissions.html
@@ -23,7 +23,7 @@
 
 
 
-<div class="wp-sticky-container"><div data-project="co2" class="wp-block-search-country-profile"></div><h5><strong>Our 12 most visited country profiles</strong></h5><div class="wp-container-634594a6f0014 wp-block-group">
+<div class="wp-sticky-container"><div data-project="co2" class="wp-block-search-country-profile"></div><h5><strong>Our 12 most visited country profiles</strong></h5><div class="wp-container-634598b5cd3e7 wp-block-group">
 <ul class="covid-country-tiles"><li><a href="https://ourworldindata.org/co2/country/united-states?country=~USA">United States</a></li><li><a href="https://ourworldindata.org/co2/country/united-kingdom?country=~GBR">United Kingdom</a></li><li><a href="https://ourworldindata.org/co2/country/china?country=~CHN">China</a></li><li><a href="https://ourworldindata.org/co2/country/india?country=~IND">India</a></li><li><a href="https://ourworldindata.org/co2/country/brazil?country=~BRA">Brazil</a></li><li><a href="https://ourworldindata.org/co2/country/south-africa?country=~ZAF">South Africa</a></li><li><a href="https://ourworldindata.org/co2/country/germany?country=~DEU">Germany</a></li><li><a href="https://ourworldindata.org/co2/country/spain?country=~ESP">Spain</a></li><li><a href="https://ourworldindata.org/co2/country/france?country=~FRA">France</a></li><li><a href="https://ourworldindata.org/co2/country/canada?country=~CAN">Canada</a></li><li><a href="https://ourworldindata.org/co2/country/australia?country=~AUS">Australia</a></li><li><a href="https://ourworldindata.org/co2/country/sweden?country=~SWE">Sweden</a></li></ul>
 </div></div></div>
 

diff --git a/democracy.html b/democracy.html
@@ -1862,7 +1862,7 @@ Justifies democracy characteristics</td>
 
 
 
-<div class="wp-container-634594ae9fade wp-block-group">
+<div class="wp-container-634598bd42b23 wp-block-group">
 <ul><li><strong>full democracy</strong>: comprehensive extent of democracy, few weaknesses</li><li><strong>flawed democracy</strong>: some weaknesses in democratic institutions and culture</li><li><strong>hybrid regime</strong>: serious weaknesses in democratic institutions and culture</li><li><strong>authoritarian regime</strong>: few democratic institutions and little democratic culture</li></ul>
 </div>
 </div>

diff --git a/democracies-measurement.html b/democracies-measurement.html
@@ -531,7 +531,7 @@ Justifies democracy characteristics</td>
 
 
 
-<div class="wp-container-63459499265de wp-block-group">
+<div class="wp-container-634598a7a58d9 wp-block-group">
 <ul><li><strong>full democracy</strong>: comprehensive extent of democracy, few weaknesses</li><li><strong>flawed democracy</strong>: some weaknesses in democratic institutions and culture</li><li><strong>hybrid regime</strong>: serious weaknesses in democratic institutions and culture</li><li><strong>authoritarian regime</strong>: few democratic institutions and little democratic culture</li></ul>
 </div>
 </div>
